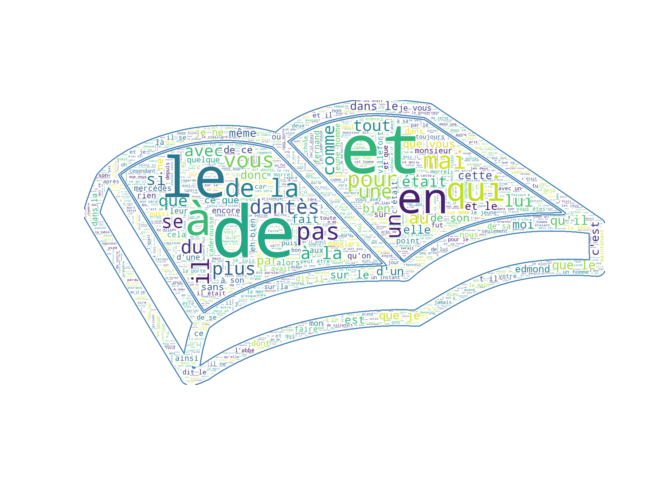
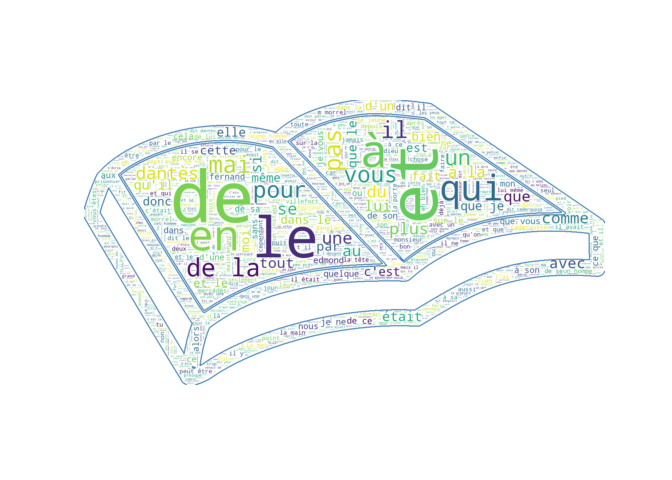
plus d'éléments

Changed region(s): [[0.125, 0.1875, 0.9062, 0.8125]]

diff --git a/content/modelisation/7_nlp/index.md b/content/modelisation/7_nlp/index.md
@@ -121,16 +121,12 @@ import matplotlib.pyplot as plt
 img = "https://raw.githubusercontent.com/linogaliana/python-datascientist/master/content/modelisation/7_nlp/book.png"
 book_mask = np.array(PIL.Image.open(io.BytesIO(requests.get(img).content)))
 
-wc = wordcloud.WordCloud(background_color="white", max_words=2000, mask=book_mask, contour_width=3, contour_color='steelblue')
-wc.generate(dumas)
-```
+def make_wordcloud(corpus):
+    wc = wordcloud.WordCloud(background_color="white", max_words=2000, mask=book_mask, contour_width=3, contour_color='steelblue')
+    wc.generate(corpus)
+    return wc
 
-```
-## <wordcloud.wordcloud.WordCloud object at 0x00000000264D8580>
-```
-
-```python
-plt.imshow(wc, interpolation='bilinear')
+plt.imshow(make_wordcloud(dumas), interpolation='bilinear')
 plt.axis("off")
 ```
 
@@ -192,12 +188,10 @@ Lors de la première utilisation de `NLTK`, il est nécessaire de télécharger
 quelques éléments nécessaires à la tokenisation, notamment la ponctuation.
 Pour cela, 
 
-
-```python
+~~~python
 import nltk
 nltk.download('punkt')
-```
-
+~~~
 {{% /panel %}}
 
 
@@ -231,5 +225,113 @@ print(stopwords.words("french"))
 ```
 
 ```python
-stopWords = set(stopwords.words('french'))
+stop_words = set(stopwords.words('french'))
+
+
+words = [w for w in words if not w in stop_words]
+print(words[1030:1050])
 ```
+
+```
+## ['celui', 'dantès', 'a', 'déposé', 'passant', 'comment', 'paquet', 'déposer', 'danglars', 'rougit', 'passais', 'devant', 'porte', 'capitaine', 'entrouverte', 'vu', 'remettre', 'paquet', 'cette', 'lettre']
+```
+
+Ces retraitements commencent à porter leurs fruits puisque des mots ayant plus
+de sens commencent à se dégager, notamment les noms des personnes
+(Fernand, Mercédès, Villefort, etc.)
+
+
+```python
+wc = make_wordcloud(' '.join(words))
+
+plt.imshow(wc, interpolation='bilinear')
+plt.axis("off")
+```
+
+```
+## (-0.5, 1429.5, 783.5, -0.5)
+```
+
+```python
+plt.show()
+```
+
+![](index_files/figure-html/unnamed-chunk-7-1.png)<!-- -->
+
+
+### *Stemming*
+
+Pour réduire la complexité d'un texte, on peut tirer partie de
+"classes d'équivalence" : on peut
+considérer que différentes formes d’un même mot (pluriel,
+singulier, conjugaison) sont équivalentes et les remplacer par une
+même forme dite canonique. Il existe deux approches dans le domaine:
+
+* la **lemmatisation** qui requiert la connaissance des statuts
+grammaticaux (exemple : chevaux devient cheval)
+* la **racinisation** (*stemming*) plus fruste mais plus rapide, notamment
+en présence de fautes d’orthographes. Dans ce cas, chevaux peut devenir chev
+mais être ainsi confondu avec chevet ou cheveux
+
+La racinisation est plus simple à mettre en oeuvre car elle peut s'appuyer sur
+des règles simples pour extraire la racine d'un mot. 
+
+
+Pour réduire un mot dans sa forme "racine", c'est-à-dire en s'abstrayant des
+conjugaisons ou variations comme les pluriels, on applique une méthode de
+*stemming*. Le but du *stemming* est de regrouper de
+nombreuses variantes d’un mot comme un seul et même mot.
+Par exemple, une fois que l’on applique un stemming, "chats" et "chat" 
+deviennent un même mot. 
+Cette approche a l'avantage de réduire la taille du vocabulaire à maîtriser
+pour l'ordinateur et le modélisateur. Il existe plusieurs algorithmes de 
+*stemming*, notamment le *Porter Stemming Algorithm* ou le
+*Snowball Stemming Algorithm*. Nous pouvons utiliser ce dernier en Français:
+
+
+```python
+from nltk.stem.snowball import SnowballStemmer
+stemmer = SnowballStemmer(language='french')
+
+stemmed = [stemmer.stem(word) for word in words]
+print(stemmed[1030:1050])
+```
+
+```
+## ['celui', 'dantes', 'a', 'dépos', 'pass', 'comment', 'paquet', 'dépos', 'danglar', 'roug', 'pass', 'dev', 'port', 'capitain', 'entrouvert', 'vu', 'remettr', 'paquet', 'cet', 'lettr']
+```
+
+A ce niveau, les mots commencent à être moins intelligibles par un humain. 
+La machine prendra le relais, on lui a préparé le travail
+
+{{% panel status="note" title="Note" icon="fa fa-comment" %}}
+~~~python
+from nltk.stem.snowball import FrenchStemmer
+stemmer = FrenchStemmer()
+~~~
+{{% /panel %}}
+
+
+### Reconnaissance des entités nommées
+
+Cette étape n'est pas une étape de préparation mais illustre la capacité 
+des librairies `Python` a extraire du sens d'un texte. La librairie 
+`spaCy` permet de faire de la reconnaissance d'entités nommées, ce qui peut
+être pratique pour extraire rapidement certains personnages de notre oeuvre
+
+
+```python
+# from spacy import displacy
+# 
+# nlp = spacy.load("fr_core_news_sm")
+# doc = nlp(dumas)
+# displacy.render(doc, style="ent", jupyter=True)
+```
+
+
+## Représentation d'un texte sous forme vectorielle
+
+Une fois nettoyé, le texte est plus propice à une représentation vectorielle. En fait, implicitement, on a depuis le début adopté une démarche *bag of words*. Il s'agit d'une représentation, sans souci de contexte (ordre, utilisation), où chaque *token* représente un élément dans un vocabulaire de taille $|V|$. On peut ainsi avoir une représentation matricielle les occurrences de chaque *token* dans plusieurs documents (par exemple plusieurs livres, chapitres, etc.) pour, par exemple, en déduire une forme de similarité. 
+
+
+Afin de réduire la dimension de la matrice *bag of words*, on peut s'appuyer sur des pondérations. On élimine ainsi certains mots très fréquents ou au contraire très rares. La pondération la plus simple est basée sur la fréquence des mots dans le document. C'est l'objet de la métrique tf-idf (term frequency - inverse document frequency)
